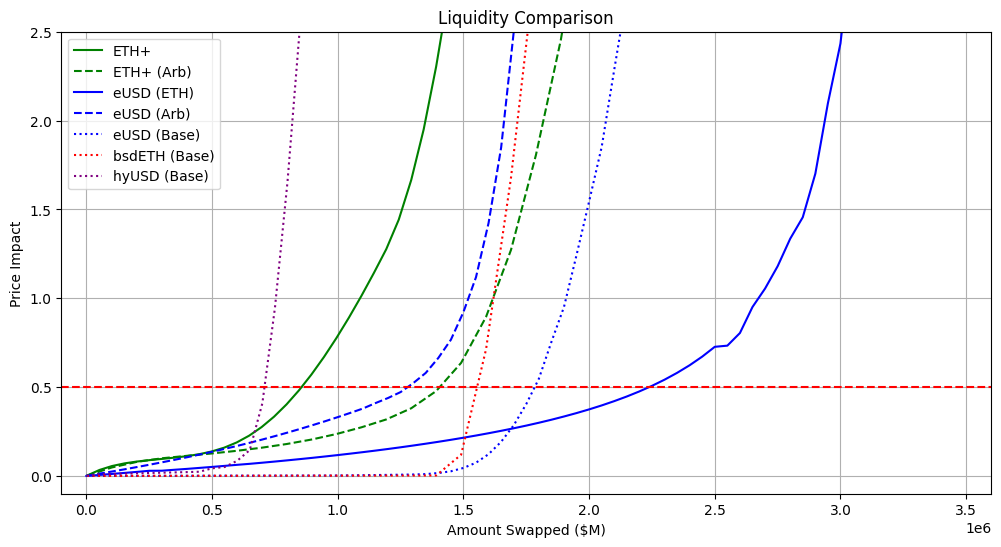
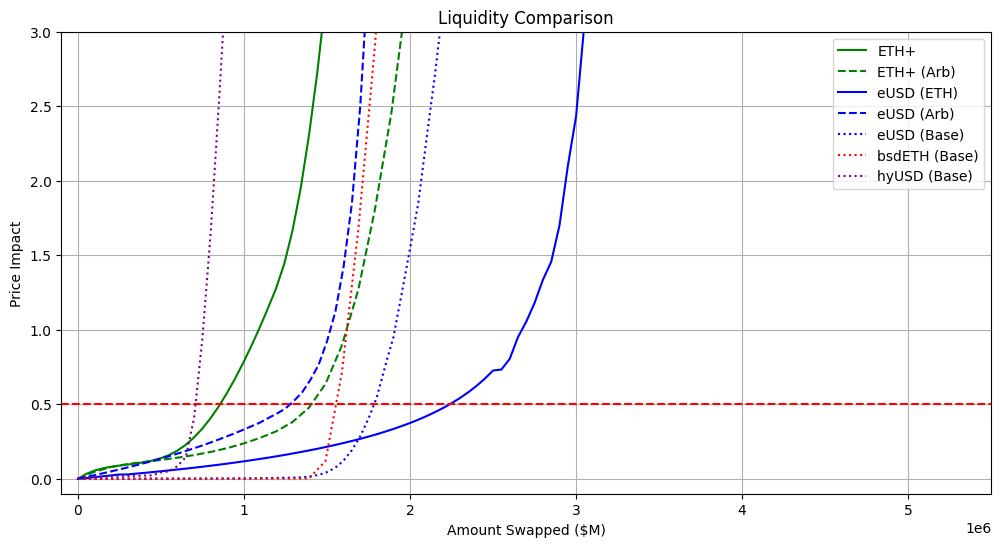
new chart for rtoken liquidity

diff --git a/pages/2_RToken_Price_Depth.py b/pages/2_RToken_Price_Depth.py
@@ -71,8 +71,11 @@ styled_df = df.style.applymap(color_negative_red, subset=['Weekly Change'])
 st.dataframe(styled_df, use_container_width=True)
 
 if st.checkbox('See Graph'):
-    st.image('Liquidity_comparison_9.4.24.png')
-    st.image('Liquidity_comparison_9.13.24.png')
+    col1, col2 = st.columns(2)
+    with col1:
+        st.image('Liquidity_comparison_9.4.24.png', caption='4 September 2024')
+    with col2:
+        st.image('Liquidity_comparison_9.13.24.png', caption='13 September 2024')
 # Add some explanatory text
 st.markdown("""
 - The chart measures the amount of an RToken you can swap on a DEX Aggregator (Odos) in a single transaction before incurring a 0.5% price impact. 
